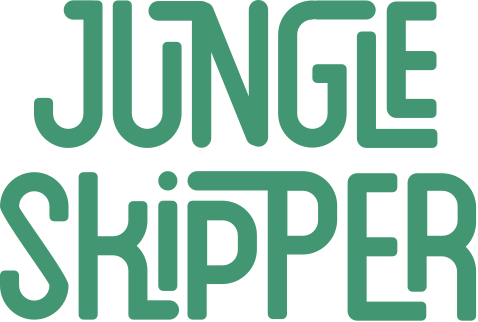
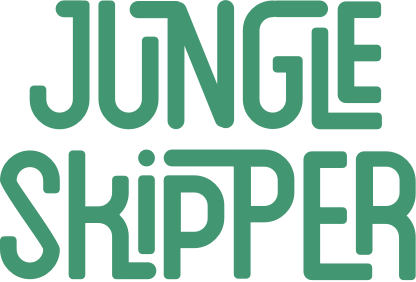
Added the leaves back to the header and resized the header to make it smaller

diff --git a/_sass/_header.scss b/_sass/_header.scss
@@ -1,39 +1,27 @@
-header {
-
-	#vines {
-		background-image: url('/assets/images/vine-mobile.png');
-		position: absolute;
-		background-repeat: no-repeat;
-		height: 39px;
-		width: 10px;
-		top: 0;
-		left: 10px;
-
-		@include media-breakpoint-up(sm) {
-			background-image: url('/assets/images/vines.png');
-			background-position: left bottom;
-			background-size: cover;
-			height: 108px;
-			width: 331px;
-		}
-	}
-
-	#leaves {
+.leaves {
 		background-image: url('/assets/images/leaves-mobile.png');
 		position: absolute;
-		height: 28px;
-		width: 72px;
-		top: 0;
-		right: 0;
 
 		@include media-breakpoint-up(sm) {
-			background-image: url('/assets/images/leaves.png');
 			background-size: cover;
-			height: 58px;
-			width: 148px;
+			height: 115px;
+			width: 100px;
+
+			&.left {
+				background-image: url('/assets/images/leaves-left.png');
+				left: 0px;
+				top: 0;
+			}
+
+			&.right {
+				background-image: url('/assets/images/leaves-right.png');
+				right: 0px;
+				top: 0;
+			}
 		}
 	}
 
+header {
 	#logo {
 		text-align: center;
 
@@ -49,8 +37,8 @@ header {
 
 			@include media-breakpoint-up(sm) {
 				background-image: url('/assets/images/jungle-skipper.png');
-				height: 161px;
-				width: 240px;
+				height: 140px;
+				width: 208px;
 			}
 		}
 

diff --git a/_layouts/default.html b/_layouts/default.html
@@ -26,6 +26,10 @@
 
 	</head>
 	<body>
+
+		<div class="leaves left"></div>
+		<div class="leaves right"></div>
+
 		<div class="container">
 			{% include header.html %}
 		</div>
@@ -71,7 +75,7 @@
 				<div class="container">
 					<div class="row">
 						<div class="col-sm-6">
-							Jungle Skipper is independent and is no way endorsed or connected to The Walt Disney Company
+							Jungle Skipper is not endorsed or connected to The Walt Disney Company
 						</div>
 						<div class="col-sm-6 right">
 							Built with love using <a href="https://jekyllrb.com" target="_blank">Jekyll</a> &amp; hosted on <a href="https://github.com/dtsn/jungleskipper">Github</a>.

diff --git a/_includes/header.html b/_includes/header.html
@@ -1,8 +1,4 @@
 <header class="main">
-
-	<div id="vines"></div>
-	<div id="leaves"></div>
-
 	<div id="logo">
 		<a href="/" rel="Home">
 			Jungle Skipper
